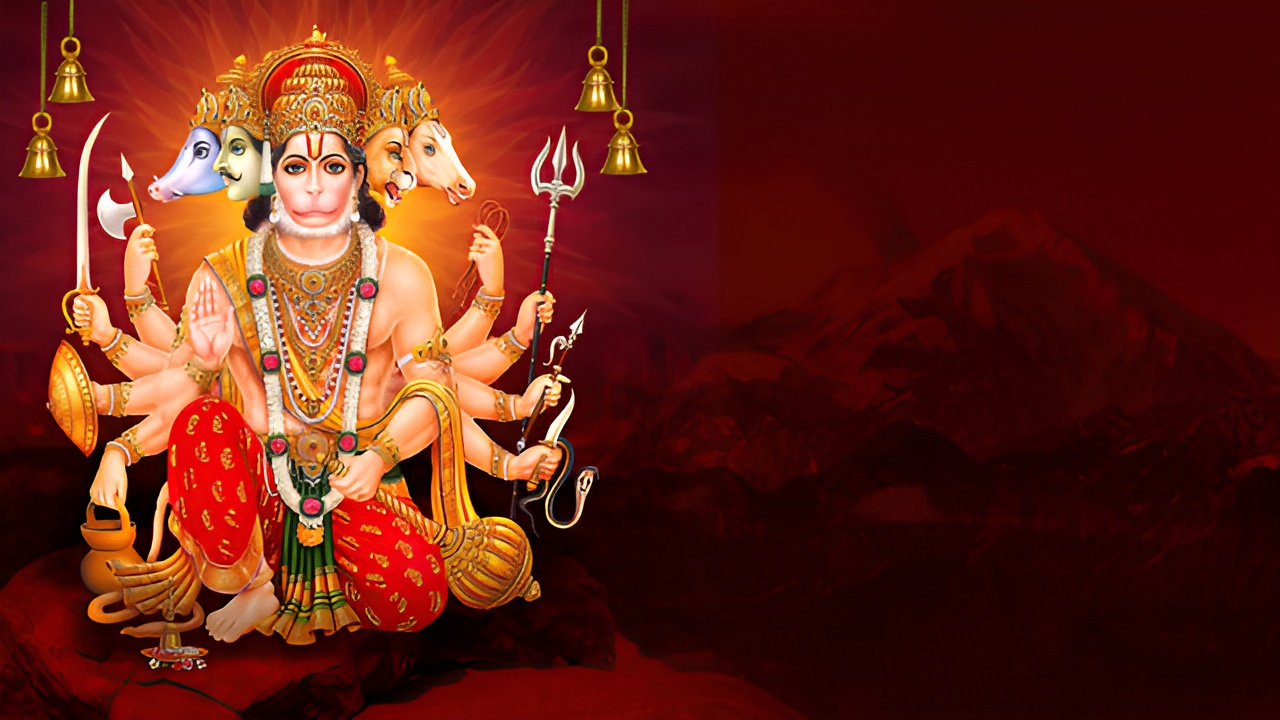
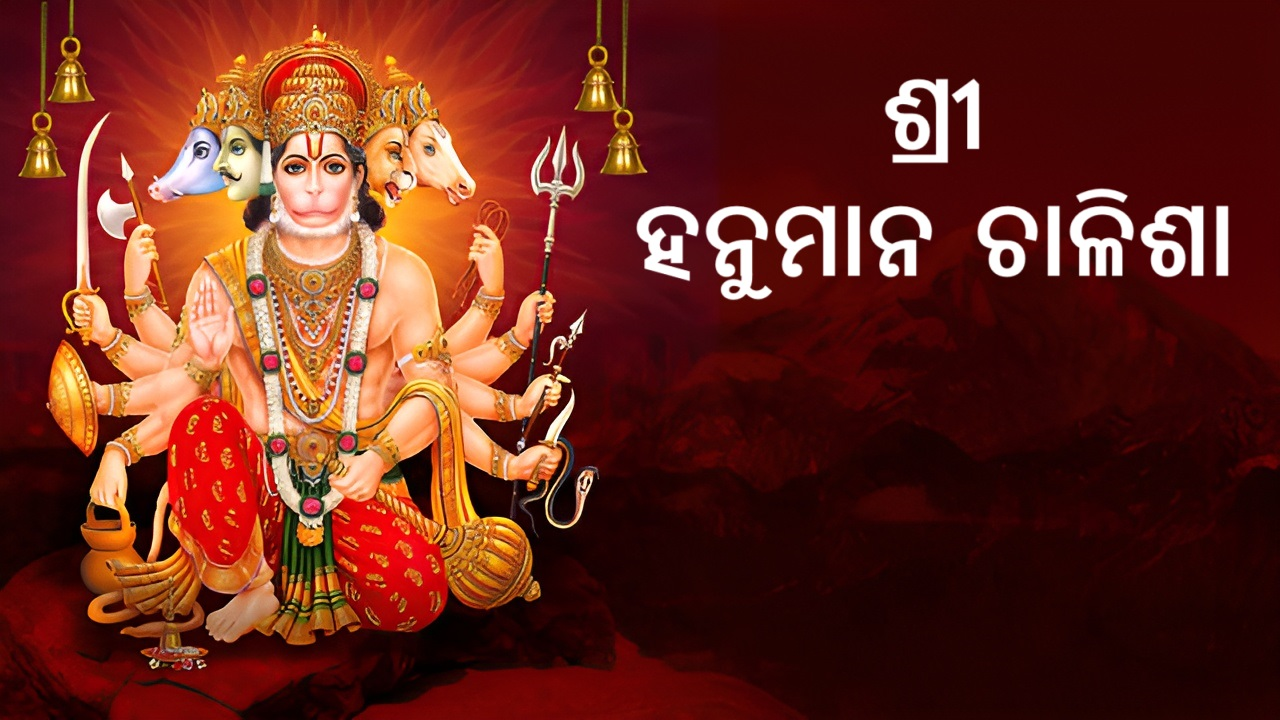
added more songs and bug fixes

Changed region(s): [[0.5, 0.2444, 0.9688, 0.4278], [0.6875, 0.0917, 0.7812, 0.2444]]

diff --git a/songs.html b/songs.html
@@ -40,7 +40,7 @@
             </div>
             <div class="col-lg-3 col-md-3 col-sm-3 col-6">
                 <div class="box3">
-                    <a href=""><img src="./images/nada achara.png" alt=""></a>
+                    <a href="./commingsoon.html"><img src="./images/nada achara.png" alt=""></a>
                 </div>
             </div>
             <div class="col-lg-3 col-md-3 col-sm-3 col-6">
@@ -59,24 +59,34 @@
                     <a href="./images/song_gokhadya_azolla.jpg"><img src="./images/gokhadya_azolla.jpg" alt=""></a>
                 </div>
             </div>
+            <div class="col-lg-3 col-md-3 col-sm-3 col-6">
+                <div class="box3">
+                    <a href="./commingsoon.html"><img src="./images/gai_palibaa_kahinki.jpg" alt=""></a>
+                </div>
+            </div>
         </div>
         <br><br>
         <h3>Patriotic Songs</h3>
         <div class="row">
             <div class="col-lg-3 col-md-3 col-sm-3 col-6">
                 <div class="box3">
-                    <a href=""><img src="./images/ame_sabu_kuni....png" alt=""></a>
+                    <a href="./commingsoon.html"><img src="./images/ame_sabu_kuni....png" alt=""></a>
                 </div>
             </div>
             <div class="col-lg-3 col-md-3 col-sm-3 col-6">
                 <div class="box3">
-                    <a href=""><img src="./images/paika_neta.jpg" alt=""></a>
+                    <a href="./commingsoon.html"><img src="./images/paika_neta.jpg" alt=""></a>
+                </div>
+            </div>
+            <div class="col-lg-3 col-md-3 col-sm-3 col-6">
+                <div class="box3">
+                    <a href="./commingsoon.html"><img src="./images/bharat_mata_ki_jay.png" alt=""></a>
                 </div>
             </div>
         </div>
     </section>
     <br><br><br>
-
+    <div class="copyright">&copy; Ganapati Pradhan</div>
     <script>
         document.addEventListener("DOMContentLoaded", function () {
             const boxes = document.querySelectorAll('.box3');

diff --git a/style.css b/style.css
@@ -52,7 +52,7 @@ header{
     padding-right: 50px;
 }
 .box1{
-    background-image: url(images/hanuman.jpg);
+    background-image: url(images/hanuman\ chalisa\ banner.png);
     background-size: cover;
     margin: 50px 50px 20px 80px;
     aspect-ratio: 1.9;
@@ -214,7 +214,7 @@ iframe{
         justify-content: space-evenly;
     }
     h5{
-        margin: 30px auto 15px;
+        margin: 30px auto 10px;
     }
     .fa-solid, .fa-brands, .fas {
         margin-top: 4px;
@@ -285,5 +285,8 @@ iframe{
         flex-direction: column;
         align-items: center; /* Centers items vertically */
         justify-content: center;
+    }
+    .profile{
+        margin-top: 140px;
     }
 }
